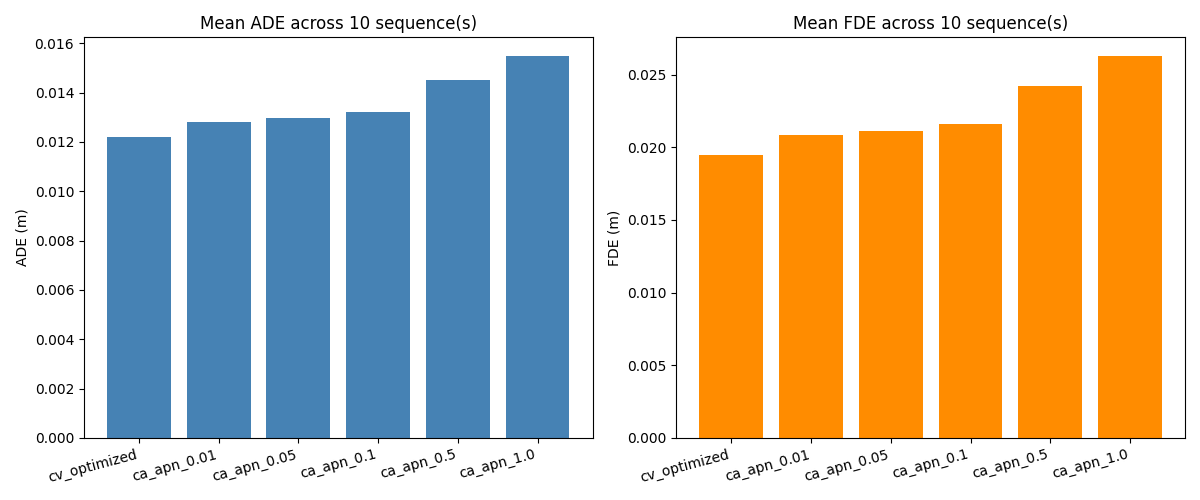
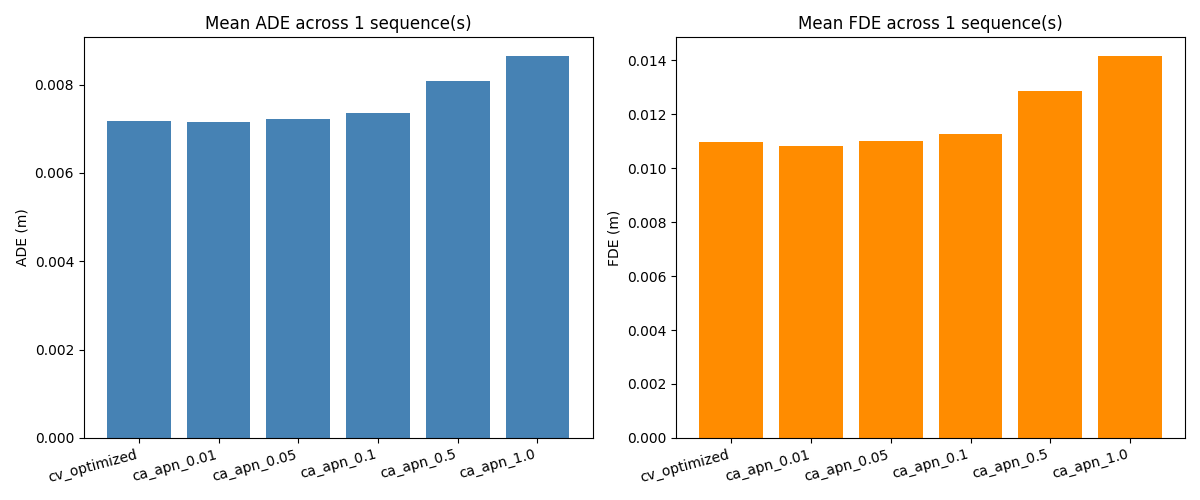
Plots for final presentation

diff --git a/3dpipe/output/presentation/visualize_results.py b/3dpipe/output/presentation/visualize_results.py
@@ -1,0 +1,251 @@
+"""Generate presentation-ready plots and tables from experiment results."""
+
+import os
+import numpy as np
+import pandas as pd
+import matplotlib
+matplotlib.use("Agg")
+import matplotlib.pyplot as plt
+
+OUTPUT_DIR = os.path.dirname(__file__)
+DATA_DIR = os.path.dirname(OUTPUT_DIR)
+
+PHASE_1_CSV = os.path.join(DATA_DIR, "sweep_phase_1.csv")
+PHASE_4_CSV = os.path.join(DATA_DIR, "sweep_phase_4.csv")
+
+DPI = 200
+FONT_SIZE = 13
+TITLE_SIZE = 15
+BAR_LABEL_SIZE = 11
+
+plt.rcParams.update({
+    "font.size": FONT_SIZE,
+    "axes.titlesize": TITLE_SIZE,
+    "axes.labelsize": FONT_SIZE,
+    "xtick.labelsize": 11,
+    "ytick.labelsize": 11,
+    "figure.facecolor": "white",
+    "axes.facecolor": "white",
+    "savefig.facecolor": "white",
+})
+
+
+def render_table(columns, rows, col_widths, title, out_path):
+    """Render a table as a clean image."""
+    n_cols = len(columns)
+    n_rows = len(rows)
+    fig_w = sum(col_widths) + 0.4
+    fig_h = 0.55 * (n_rows + 1) + 0.7
+
+    fig, ax = plt.subplots(figsize=(fig_w, fig_h))
+    ax.axis("off")
+    fig.suptitle(title, fontsize=TITLE_SIZE, fontweight="bold", y=0.95)
+
+    table = ax.table(
+        cellText=rows,
+        colLabels=columns,
+        cellLoc="center",
+        loc="center",
+        colWidths=[w / fig_w for w in col_widths],
+    )
+    table.auto_set_font_size(False)
+    table.set_fontsize(FONT_SIZE)
+    table.scale(1, 1.8)
+
+    for (row, col), cell in table.get_celld().items():
+        cell.set_edgecolor("#cccccc")
+        cell.set_linewidth(0.5)
+        if row == 0:
+            cell.set_facecolor("#4472C4")
+            cell.set_text_props(color="white", fontweight="bold")
+        elif row % 2 == 0:
+            cell.set_facecolor("#f0f4fa")
+        else:
+            cell.set_facecolor("white")
+
+    plt.savefig(out_path, dpi=DPI, bbox_inches="tight", pad_inches=0.15)
+    plt.close()
+    print(f"Saved: {out_path}")
+
+
+def plot_detection_accuracy():
+    """Table with combined 3D detection error and detection rate."""
+    columns = ["Metric", "Value"]
+    rows = [
+        ["Detection rate", "41 / 45  (91%)"],
+        ["Combined 3D error (mean)", "6.7 cm"],
+        ["Combined 3D error (std)", "0.9 cm"],
+        ["Test positions", "45  (3 depths x 15 lateral)"],
+    ]
+    render_table(columns, rows, [3.5, 3.5], "Detection Accuracy",
+                 os.path.join(OUTPUT_DIR, "detection_accuracy.png"))
+
+
+def plot_phase1_sweep():
+    """Phase 1: velocity process noise sweep - ADE and FDE bar charts."""
+    df = pd.read_csv(PHASE_1_CSV)
+
+    configs = df["config"].unique()
+    mean_ades, mean_fdes = [], []
+    labels = []
+
+    for cfg in configs:
+        sub = df[df["config"] == cfg]
+        ade_vals = sub["mean_ade_m"].dropna()
+        fde_vals = sub["mean_fde_m"].dropna()
+        mean_ades.append(ade_vals.mean() * 100)
+        mean_fdes.append(fde_vals.mean() * 100)
+        vpn = sub["velocity_process_noise"].iloc[0]
+        labels.append(str(vpn))
+
+    n_seqs = df.groupby("config")["sequence"].nunique().iloc[0]
+    x = np.arange(len(labels))
+
+    fig, (ax1, ax2) = plt.subplots(1, 2, figsize=(13, 5.5))
+    fig.suptitle(f"Velocity process noise sweep  ({n_seqs} sequences)",
+                 fontsize=TITLE_SIZE, fontweight="bold")
+
+    bars1 = ax1.bar(x, mean_ades, color="#4472C4", width=0.6)
+    ax1.set_xticks(x)
+    ax1.set_xticklabels(labels)
+    ax1.set_xlabel("Velocity process noise ($q_v$)")
+    ax1.set_ylabel("Mean ADE (cm)")
+    ax1.set_ylim(0, max(mean_ades) * 1.25)
+    ax1.grid(axis="y", alpha=0.3)
+    for bar, val in zip(bars1, mean_ades):
+        ax1.text(bar.get_x() + bar.get_width() / 2, bar.get_height() + 0.05,
+                 f"{val:.2f}", ha="center", va="bottom", fontsize=BAR_LABEL_SIZE)
+
+    bars2 = ax2.bar(x, mean_fdes, color="#ED7D31", width=0.6)
+    ax2.set_xticks(x)
+    ax2.set_xticklabels(labels)
+    ax2.set_xlabel("Velocity process noise ($q_v$)")
+    ax2.set_ylabel("Mean FDE (cm)")
+    ax2.set_ylim(0, max(mean_fdes) * 1.25)
+    ax2.grid(axis="y", alpha=0.3)
+    for bar, val in zip(bars2, mean_fdes):
+        ax2.text(bar.get_x() + bar.get_width() / 2, bar.get_height() + 0.05,
+                 f"{val:.2f}", ha="center", va="bottom", fontsize=BAR_LABEL_SIZE)
+
+    plt.tight_layout(rect=[0, 0, 1, 0.93])
+    out = os.path.join(OUTPUT_DIR, "phase1_vpn_sweep.png")
+    plt.savefig(out, dpi=DPI, bbox_inches="tight")
+    plt.close()
+    print(f"Saved: {out}")
+
+    best_idx = int(np.argmin(mean_ades))
+    columns = ["$q_v$", "Mean ADE (cm)", "Mean FDE (cm)"]
+    rows = []
+    for i in range(len(labels)):
+        marker = " *" if i == best_idx else ""
+        rows.append([labels[i], f"{mean_ades[i]:.2f}{marker}", f"{mean_fdes[i]:.2f}{marker}"])
+    render_table(columns, rows, [1.8, 2.5, 2.5],
+                 "Phase 1: velocity process noise sweep",
+                 os.path.join(OUTPUT_DIR, "phase1_vpn_table.png"))
+
+
+def plot_phase4_cv_vs_ca():
+    """Phase 4: constant-velocity vs constant-acceleration model."""
+    df = pd.read_csv(PHASE_4_CSV)
+
+    configs = df["config"].unique()
+    mean_ades, mean_fdes = [], []
+    labels = []
+
+    for cfg in configs:
+        sub = df[df["config"] == cfg]
+        mean_ades.append(sub["mean_ade_m"].dropna().mean() * 100)
+        mean_fdes.append(sub["mean_fde_m"].dropna().mean() * 100)
+        if cfg == "cv_optimized":
+            labels.append("CV (baseline)")
+        else:
+            apn = sub["acceleration_process_noise"].iloc[0]
+            labels.append(f"CA  $q_a$={apn}")
+
+    n_seqs = df.groupby("config")["sequence"].nunique().iloc[0]
+    x = np.arange(len(labels))
+
+    colors = ["#4472C4"] + ["#A9D18E"] * (len(labels) - 1)
+
+    fig, (ax1, ax2) = plt.subplots(1, 2, figsize=(13, 5.5))
+    fig.suptitle(f"Constant-velocity vs constant-acceleration  ({n_seqs} sequence)",
+                 fontsize=TITLE_SIZE, fontweight="bold")
+
+    bars1 = ax1.bar(x, mean_ades, color=colors, width=0.6)
+    ax1.set_xticks(x)
+    ax1.set_xticklabels(labels, rotation=20, ha="right")
+    ax1.set_ylabel("Mean ADE (cm)")
+    ax1.set_ylim(0, max(mean_ades) * 1.3)
+    ax1.grid(axis="y", alpha=0.3)
+    for bar, val in zip(bars1, mean_ades):
+        ax1.text(bar.get_x() + bar.get_width() / 2, bar.get_height() + 0.02,
+                 f"{val:.2f}", ha="center", va="bottom", fontsize=BAR_LABEL_SIZE)
+
+    bars2 = ax2.bar(x, mean_fdes, color=colors, width=0.6)
+    ax2.set_xticks(x)
+    ax2.set_xticklabels(labels, rotation=20, ha="right")
+    ax2.set_ylabel("Mean FDE (cm)")
+    ax2.set_ylim(0, max(mean_fdes) * 1.3)
+    ax2.grid(axis="y", alpha=0.3)
+    for bar, val in zip(bars2, mean_fdes):
+        ax2.text(bar.get_x() + bar.get_width() / 2, bar.get_height() + 0.02,
+                 f"{val:.2f}", ha="center", va="bottom", fontsize=BAR_LABEL_SIZE)
+
+    plt.tight_layout(rect=[0, 0, 1, 0.93])
+    out = os.path.join(OUTPUT_DIR, "phase4_cv_vs_ca.png")
+    plt.savefig(out, dpi=DPI, bbox_inches="tight")
+    plt.close()
+    print(f"Saved: {out}")
+
+
+def plot_system_performance():
+    """System performance table from phase 1 best config."""
+    df = pd.read_csv(PHASE_1_CSV)
+    best_cfg = "vpn_0.02"
+    sub = df[df["config"] == best_cfg]
+
+    lat_p95 = sub["latency_p95_ms"].mean()
+    fps = sub["throughput_fps"].mean()
+    ram = sub["ram_peak_mb"].max()
+    gpu = sub["gpu_peak_mb"].max()
+
+    columns = ["Metric", "Value"]
+    rows = [
+        ["Latency (p95)", f"{lat_p95:.1f} ms"],
+        ["Throughput", f"{fps:.1f} fps"],
+        ["Camera rate", "30 fps"],
+        ["RAM peak", f"{ram / 1000:.1f} GB"],
+        ["GPU memory peak", f"{gpu / 1000:.1f} GB"],
+    ]
+    render_table(columns, rows, [3.0, 2.5], "System Performance",
+                 os.path.join(OUTPUT_DIR, "system_performance.png"))
+
+
+def plot_prediction_summary():
+    """Compare best CV vs best CA on the same sequence (phase 4 data)."""
+    df = pd.read_csv(PHASE_4_CSV)
+
+    cv = df[df["config"] == "cv_optimized"].iloc[0]
+    ca = df[df["config"] == "ca_apn_0.01"].iloc[0]
+
+    columns = ["Metric", "Best CV ($q_v$ = 0.02)", "Best CA ($q_a$ = 0.01)"]
+    rows = [
+        ["Mean ADE", f"{cv['mean_ade_m']*100:.2f} cm", f"{ca['mean_ade_m']*100:.2f} cm"],
+        ["Mean FDE", f"{cv['mean_fde_m']*100:.2f} cm", f"{ca['mean_fde_m']*100:.2f} cm"],
+        ["Max ADE",  f"{cv['max_ade_m']*100:.2f} cm",  f"{ca['max_ade_m']*100:.2f} cm"],
+        ["Max FDE",  f"{cv['max_fde_m']*100:.2f} cm",  f"{ca['max_fde_m']*100:.2f} cm"],
+        ["Prediction horizon", "0.2 s (6 frames)", ""],
+    ]
+    render_table(columns, rows, [2.8, 3.2, 3.2],
+                 "Prediction: CV vs CA",
+                 os.path.join(OUTPUT_DIR, "prediction_summary.png"))
+
+
+if __name__ == "__main__":
+    os.makedirs(OUTPUT_DIR, exist_ok=True)
+    plot_detection_accuracy()
+    plot_phase1_sweep()
+    plot_phase4_cv_vs_ca()
+    plot_system_performance()
+    plot_prediction_summary()
+    print(f"\nAll outputs saved to: {OUTPUT_DIR}")
